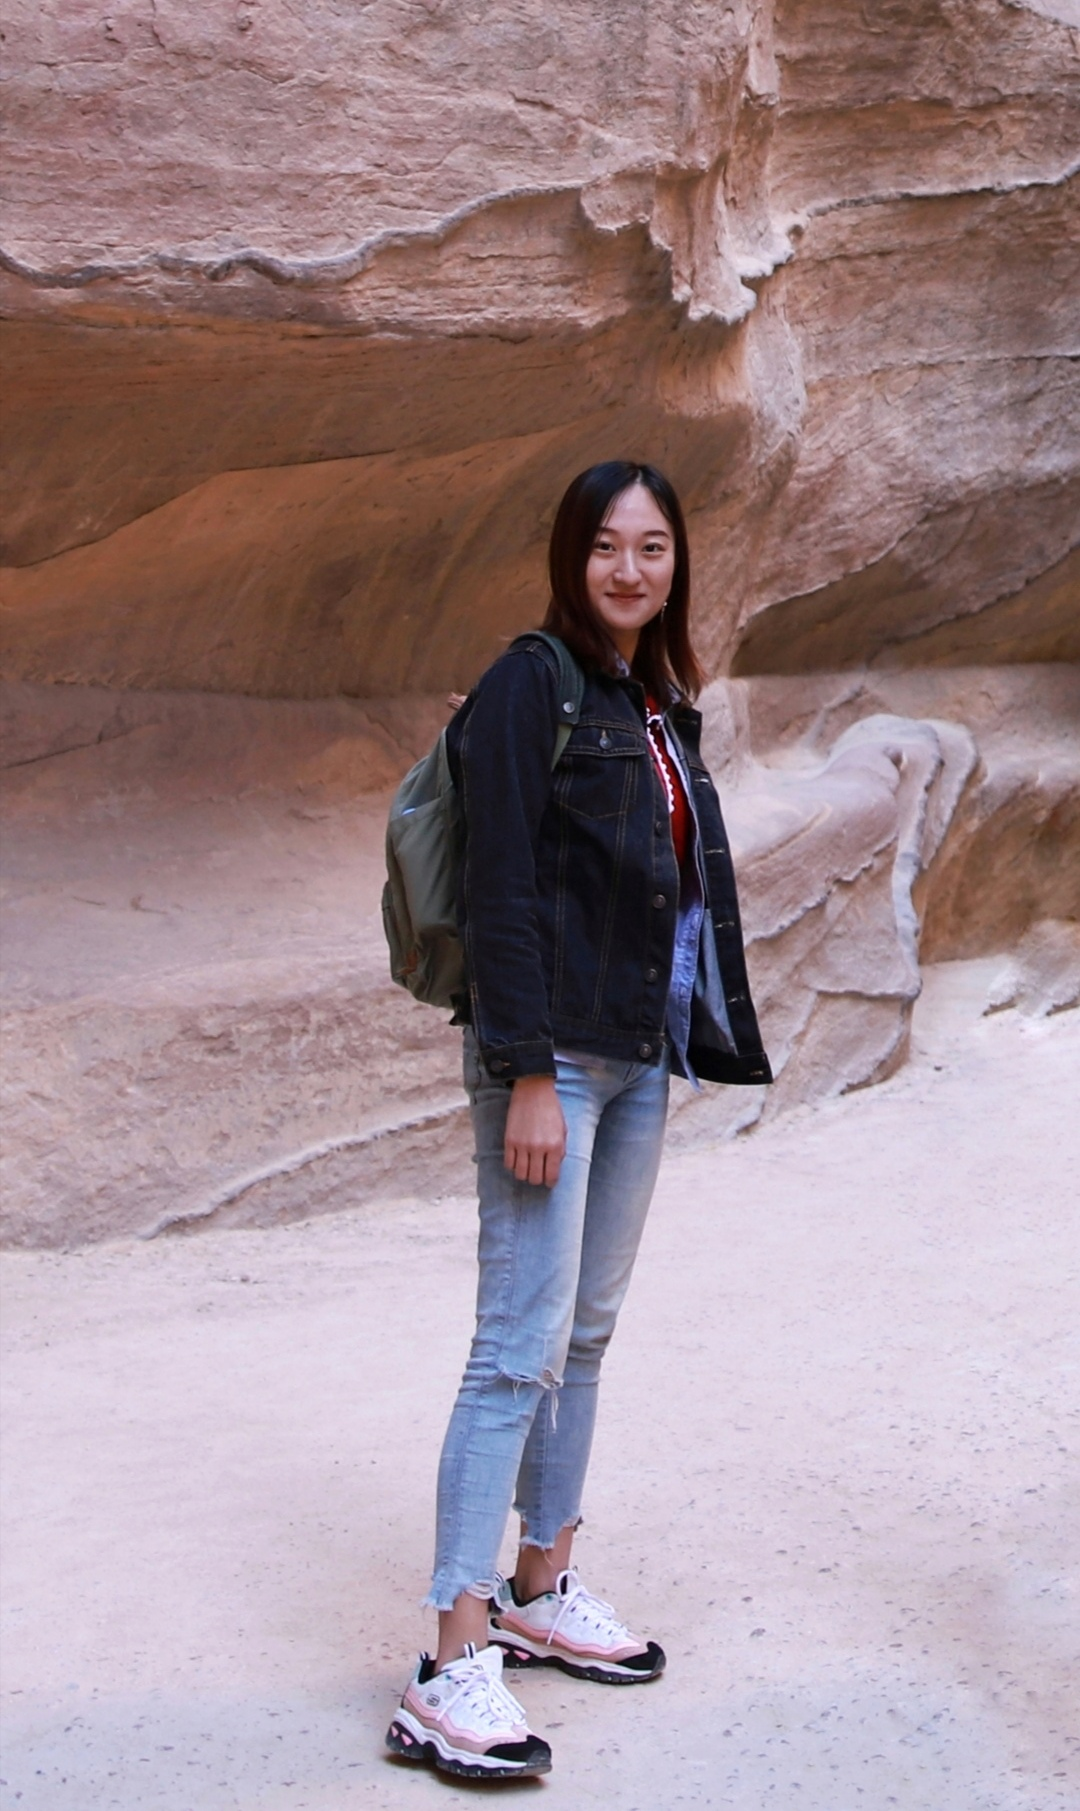
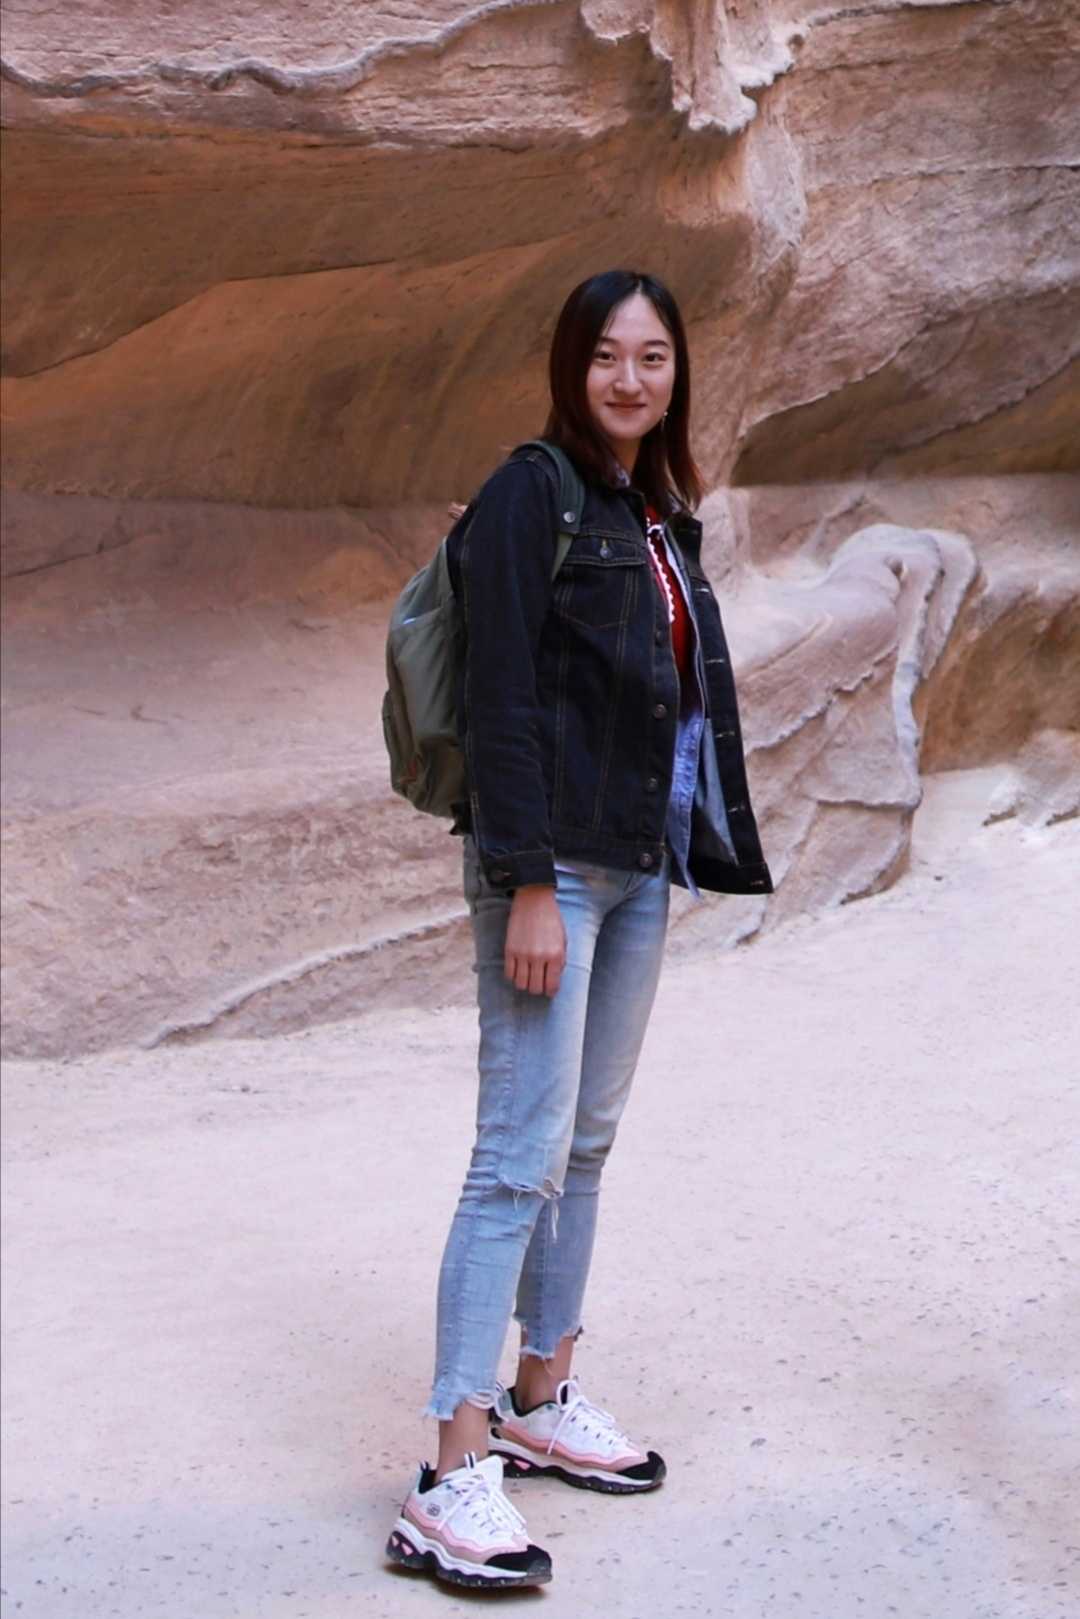
image

diff --git a/index.html b/index.html
@@ -30,7 +30,7 @@
 <table width="934">
 	<tbody>
 		<tr>
-			<td width="350">
+			<td width="330">
 			<!-- <td width="500"> -->
 				<div id="toptitle">					
 					<h1><font face="Arial"> Yutong Wang (王雨童) </font> &nbsp; 
@@ -61,10 +61,11 @@
 				    <!-- <a href="https://www.researchgate.net/profile/Zikun_Liu3"><img src="./pic/rg.png" height="30px" style="margin-bottom:-3px"></a>
  -->			</p>
 			</td>
-			<td width="468">
+			<!-- <td width="468"> -->
+				<td width="350">
 				<!-- <img src="./pic/chenzhen.jpg" border="0" width="180" style="float:left; margin: 0px;"/><br> -->
 <!-- 				<img src="./pic/yutongwang_.jpg" width="315" height="227" border="0" align="right" /><br>-->
-				<img src="./pic/yutongwang_.jpg" width="270" height="452.75" border="0" align="right" /><br>
+				<img src="./pic/yutongwang_.jpg" width="280" height="420" border="0" align="right" /><br>
 		  </td>
 		</tr><tr>
 	</tr></tbody>
